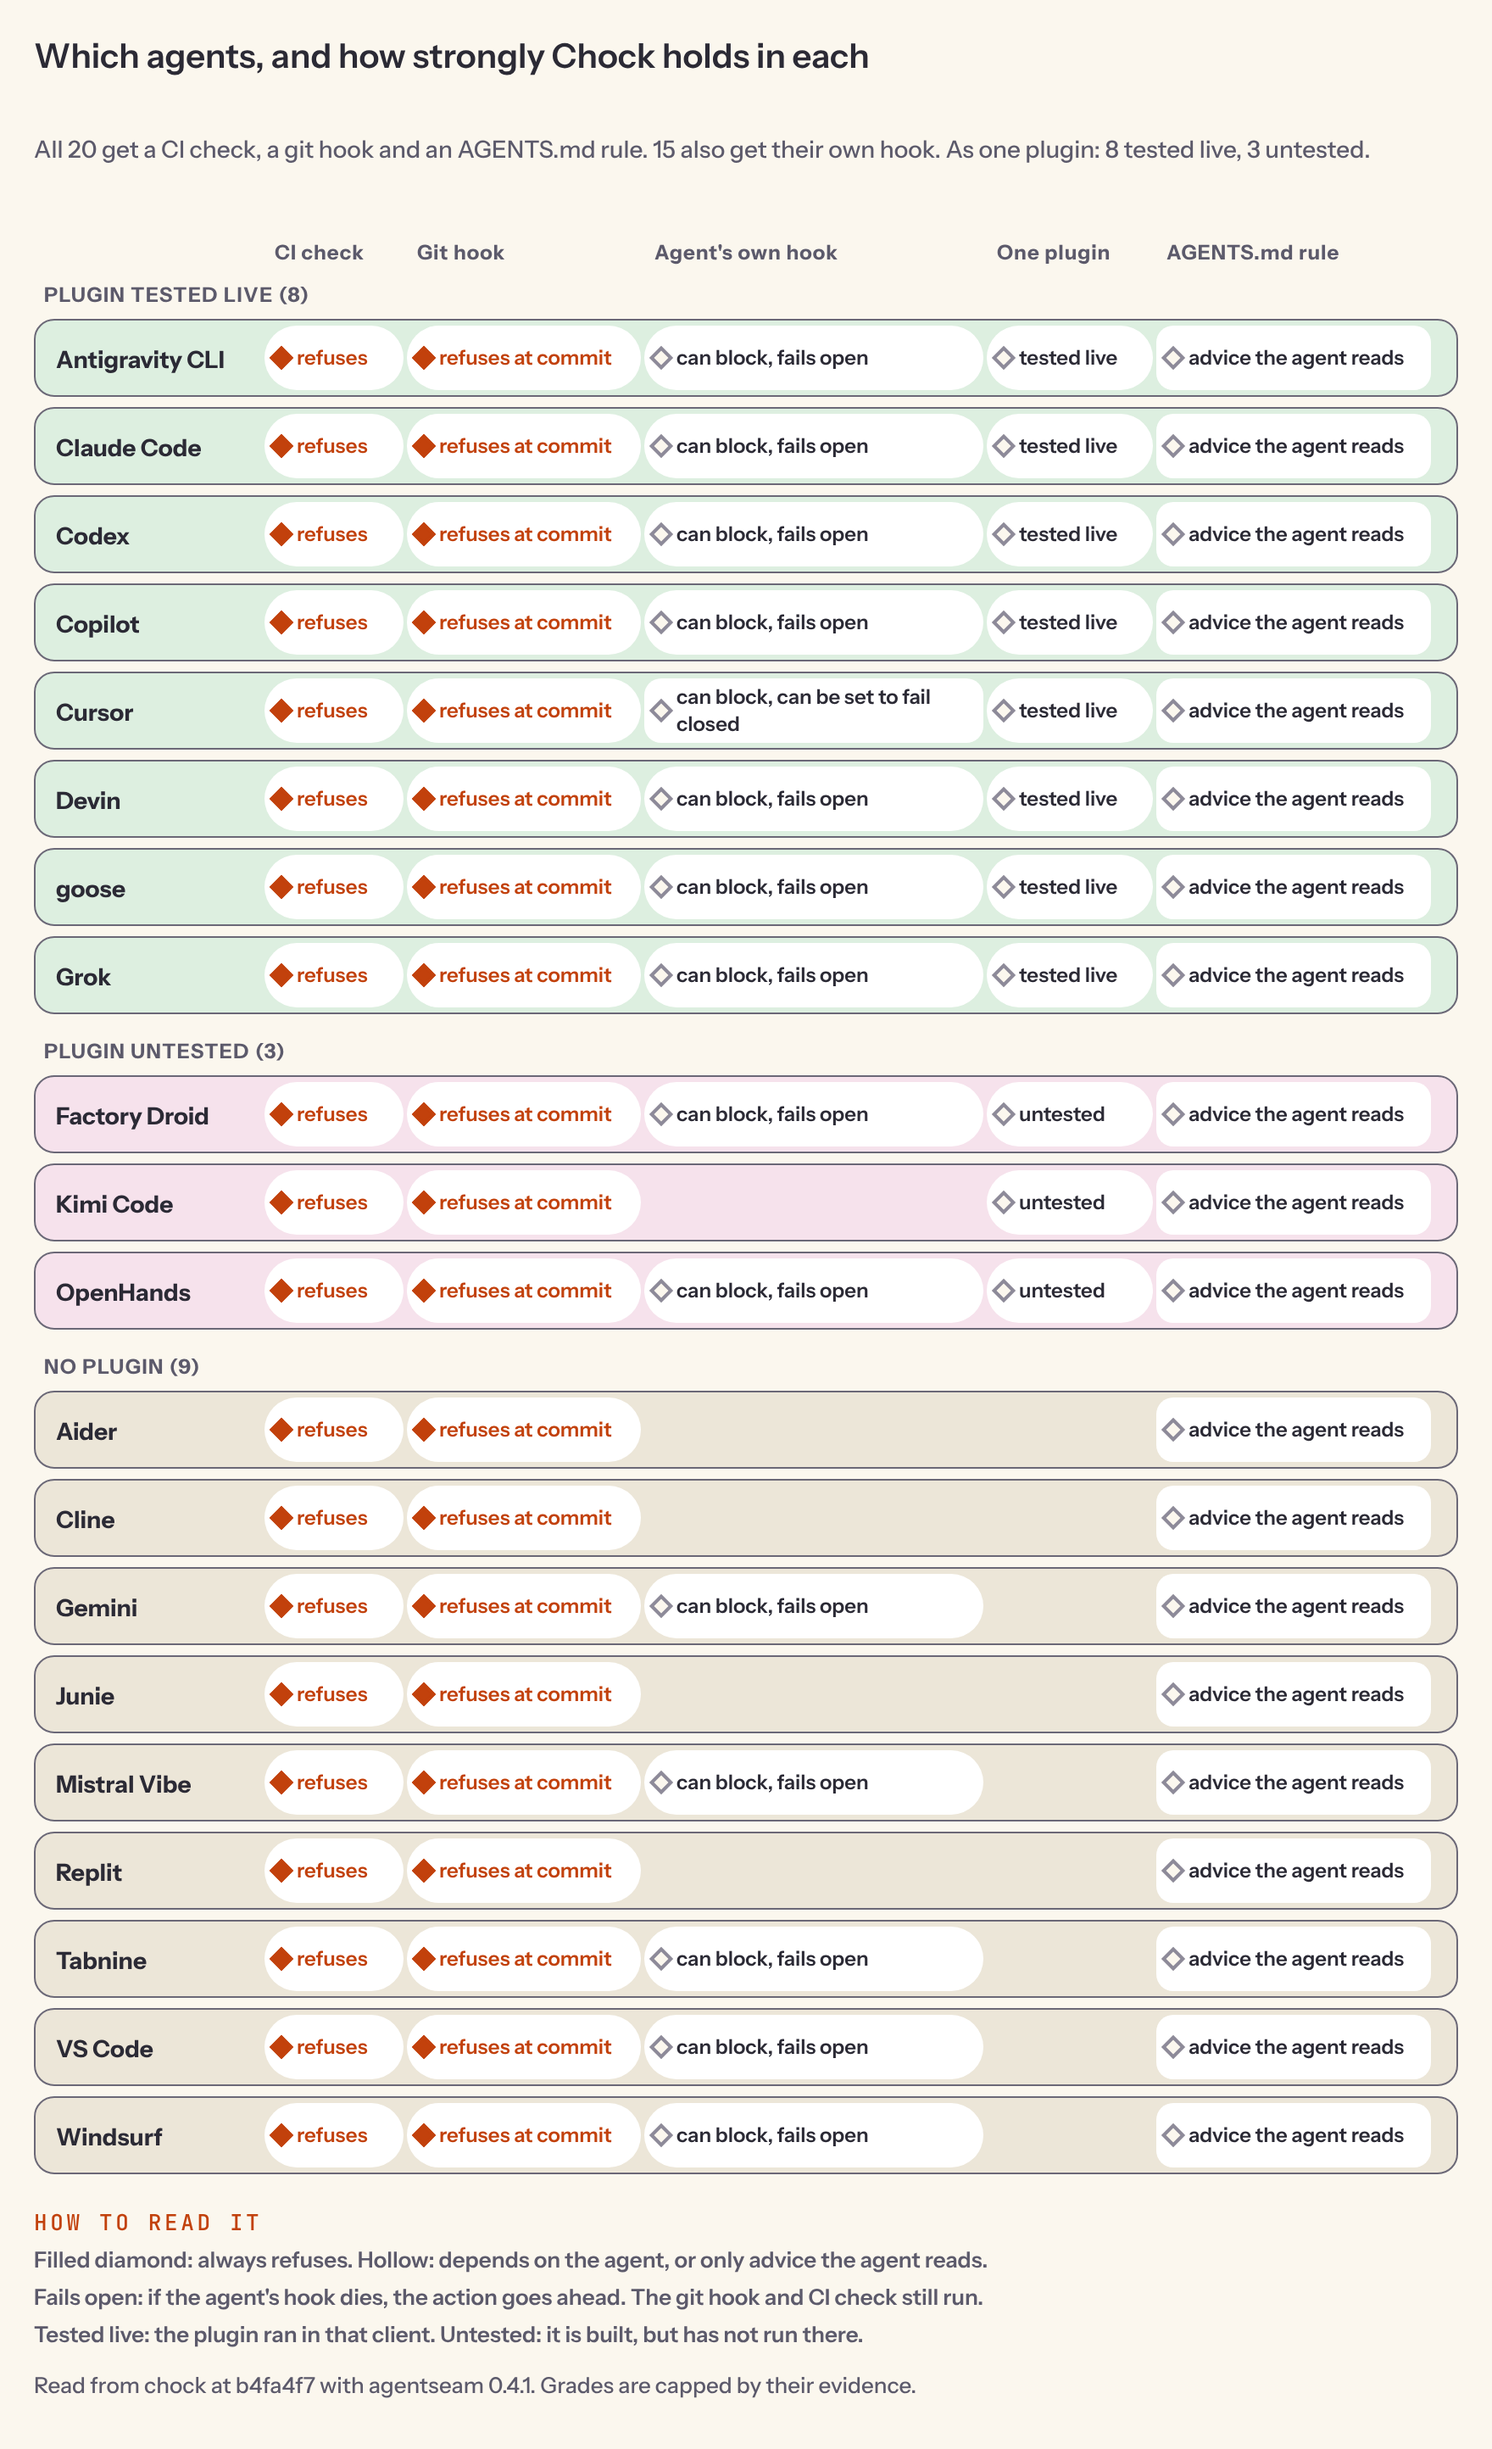
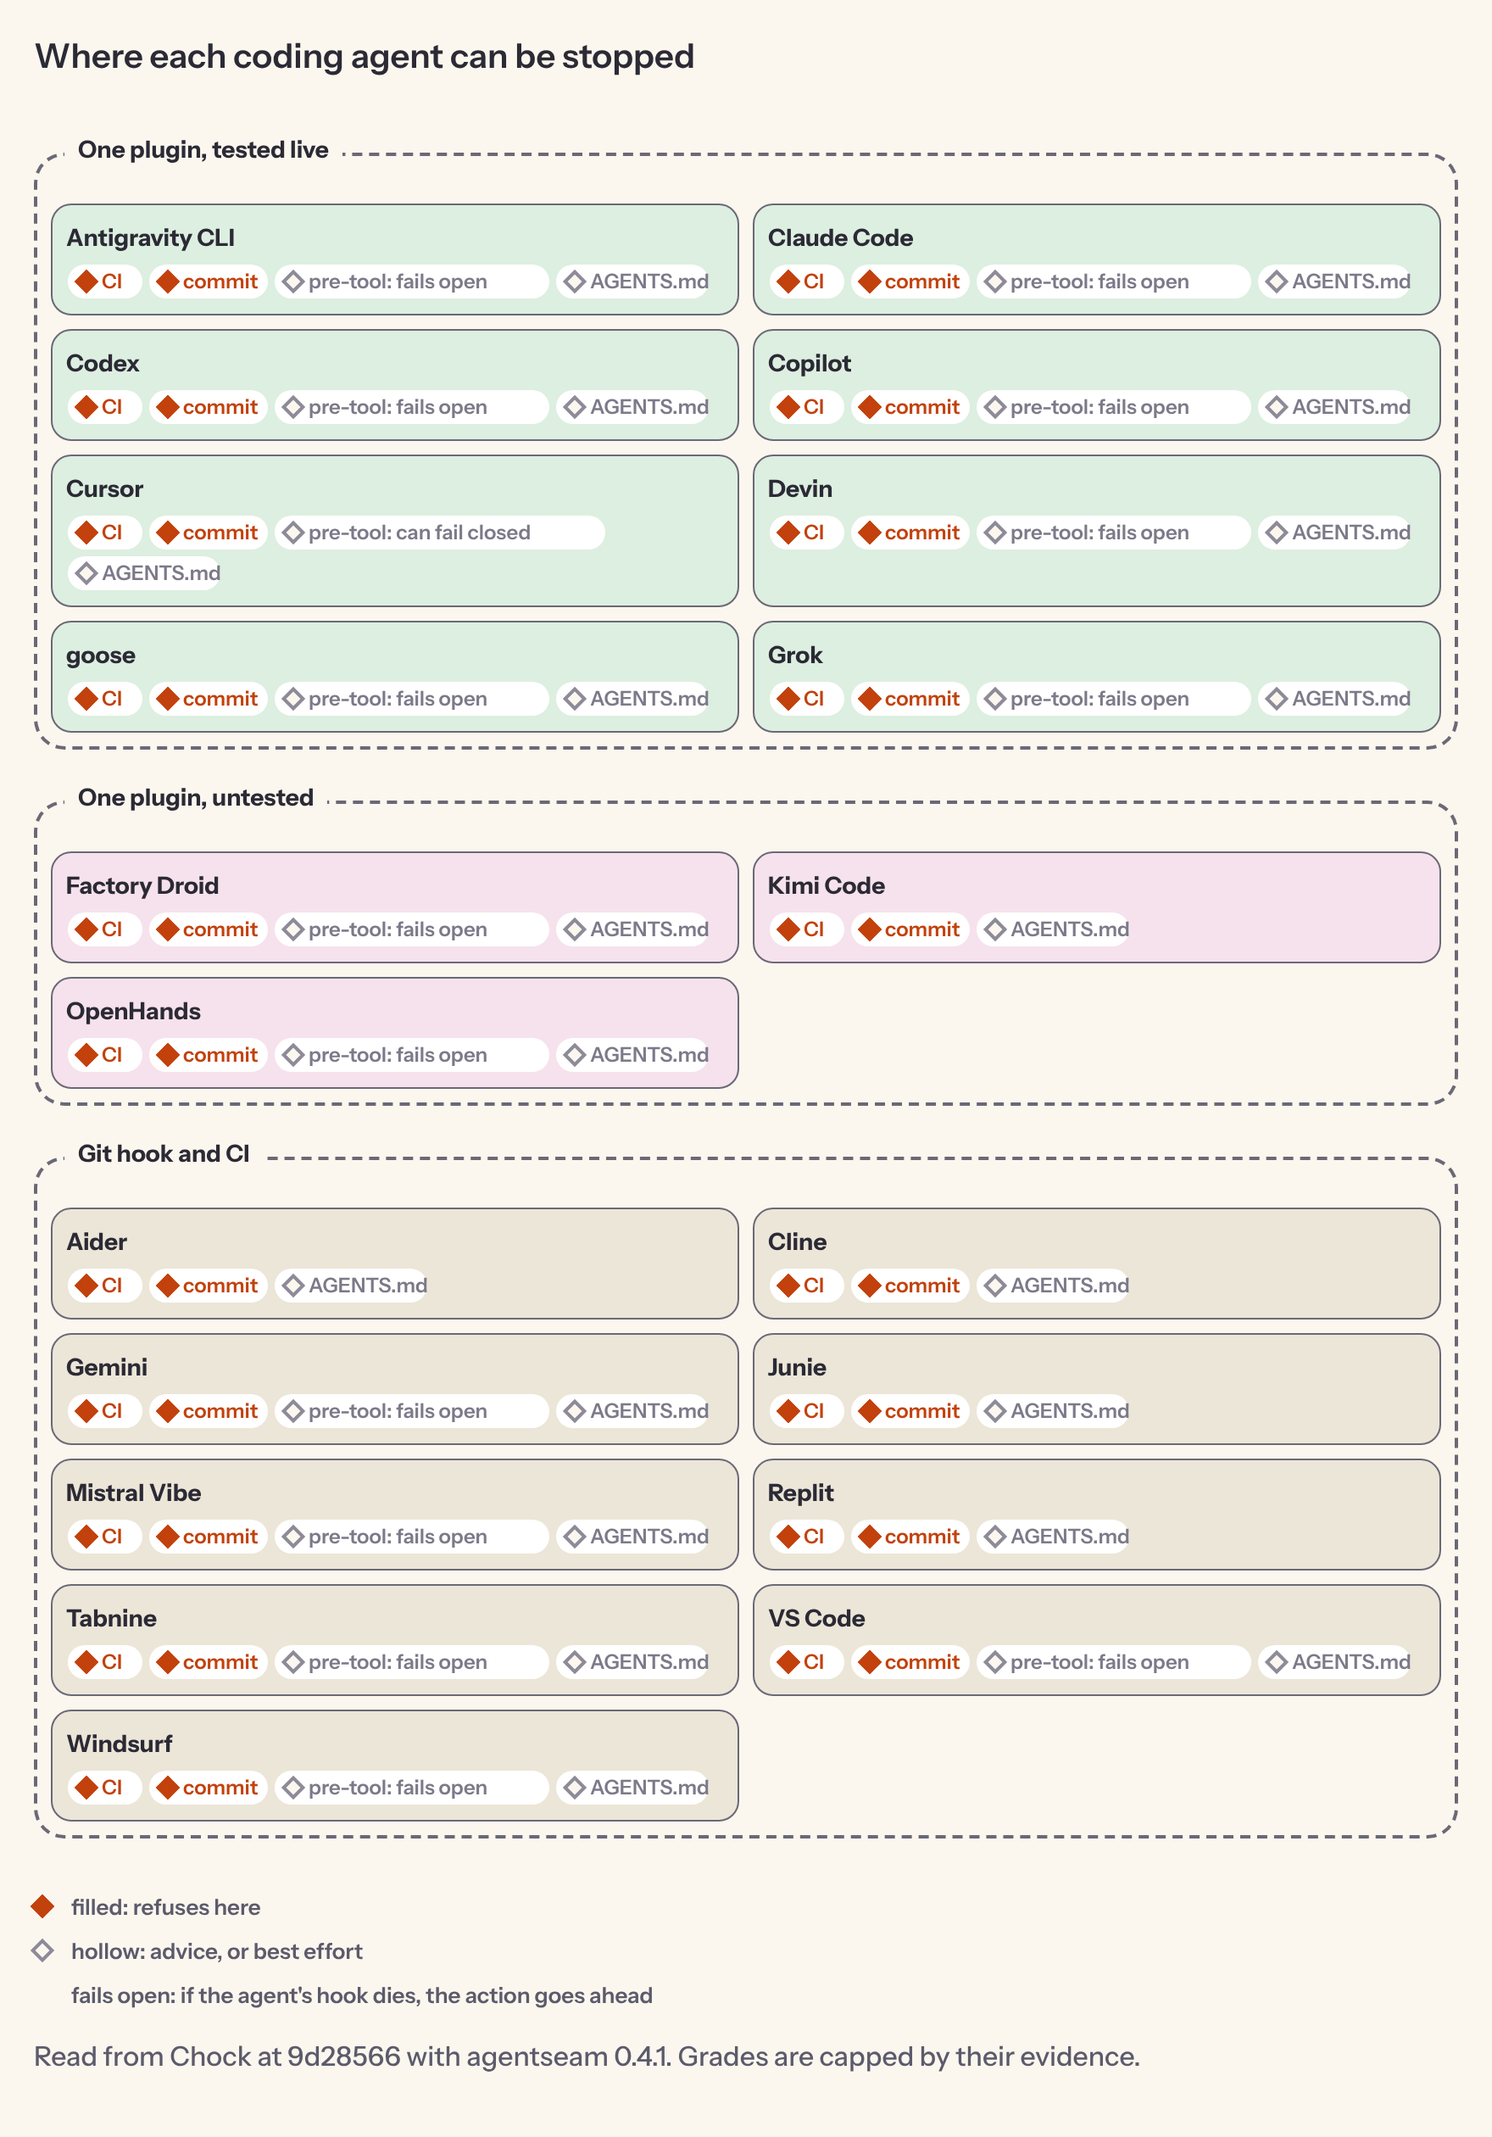
Redraw the agents picture as cards in dashed boxes (RD-9)
Per the updated plan: README palette only, one card per agent in three dashed
boxes (one plugin tested live, one plugin untested, git hook and CI), diamond
chips for CI, commit, pre-tool (labelled with its grade) and AGENTS.md, the
title "Where each coding agent can be stopped", Chock named only in the footer.
The site render, its PNG and the grid layout are removed.

diff --git a/docs/assets/readme/agents_data.py b/docs/assets/readme/agents_data.py
@@ -37,36 +37,24 @@ NAMES = {
 }
 PLUGIN_AGENT = {"claude-code": "claude"}
 GRADE_WORDS = {
-    "enforced": "blocks, verified to fail closed",
-    "enforceable": "can block, can be set to fail closed",
-    "fail-to-ask": "can block, asks a person when it cannot decide",
-    "best-effort": "can block, fails open",
+    "enforced": "fails closed",
+    "enforceable": "can fail closed",
+    "fail-to-ask": "asks when it fails",
+    "best-effort": "fails open",
     "detect": "sees it after the fact",
     "none": "",
 }
 WORDS = {
-    "title": "Which agents, and how strongly Chock holds in each",
-    "columns": [
-        ["ci", "CI check", True],
-        ["git", "Git hook", True],
-        ["hook", "Agent's own hook", False],
-        ["plugin", "One plugin", False],
-        ["rule", "AGENTS.md rule", False],
-    ],
-    "groups": {"tested live": "Plugin tested live", "untested": "Plugin untested", "": "No plugin"},
-    "ci": "refuses",
-    "git": "refuses at commit",
-    "rule": "advice the agent reads",
+    "title": "Where each coding agent can be stopped",
+    "columns": [["ci", "CI", True], ["git", "commit", True], ["hook", "pre-tool", False], ["rule", "AGENTS.md", False]],
+    "groups": {"tested live": "One plugin, tested live", "untested": "One plugin, untested", "": "Git hook and CI"},
     "plugin": {"tested": "tested live", "untested": "untested"},
-    "summary": "All __AGENTS__ get a CI check, a git hook and an AGENTS.md rule. __NATIVE__ also get their own hook. "
-    "As one plugin: __TESTED__ tested live, __UNTESTED__ untested.",
-    "legend_title": "How to read it",
     "legend": [
-        "Filled diamond: always refuses. Hollow: depends on the agent, or only advice the agent reads.",
-        "Fails open: if the agent's hook dies, the action goes ahead. The git hook and CI check still run.",
-        "Tested live: the plugin ran in that client. Untested: it is built, but has not run there.",
+        {"hard": True, "text": "filled: refuses here"},
+        {"hard": False, "text": "hollow: advice, or best effort"},
+        {"hard": None, "text": "fails open: if the agent's hook dies, the action goes ahead"},
     ],
-    "footer": "Read from chock at __COMMIT__ with agentseam __SEAM__. Grades are capped by their evidence.",
+    "footer": "Read from Chock at __COMMIT__ with agentseam __SEAM__. Grades are capped by their evidence.",
 }
 
 
@@ -98,13 +86,13 @@ def derive(commit: str) -> dict:
             {
                 "id": agent,
                 "name": NAMES[agent],
-                "ci": WORDS["ci"] if Surface.CI_GATE in surfaces else "",
-                "git": WORDS["git"] if Surface.GIT_HOOK in surfaces else "",
+                "ci": Surface.CI_GATE in surfaces,
+                "git": Surface.GIT_HOOK in surfaces,
                 "hook_grade": grade,
                 "hook": GRADE_WORDS[grade],
                 "matrix_pre_tool": matrix.enforcement_level(CHOCK_AGENT[agent], "pre_tool"),
                 "plugin": WORDS["plugin"].get(plugin.get(agent, ""), ""),
-                "rule": WORDS["rule"] if Surface.AMBIENT_RULE in surfaces else "",
+                "rule": Surface.AMBIENT_RULE in surfaces,
             }
         )
     order = {"tested live": 0, "untested": 1, "": 2}
@@ -116,21 +104,13 @@ def derive(commit: str) -> dict:
         "plugin_tested": count("plugin", "tested live"),
         "plugin_untested": count("plugin", "untested"),
     }
-    summary = WORDS["summary"]
-    for key, value in (("AGENTS", counts["agents"]), ("NATIVE", counts["own_hook"])):
-        summary = summary.replace(f"__{key}__", str(value))
-    summary = summary.replace("__TESTED__", str(counts["plugin_tested"])).replace(
-        "__UNTESTED__", str(counts["plugin_untested"])
-    )
     footer = WORDS["footer"].replace("__COMMIT__", commit[:7]).replace("__SEAM__", agentseam.__version__)
     return {
         "source": {"file": "SURFACE_AGENTS, in_agent_grade, agentseam matrix, plugin warnings", "commit": commit},
         "title": WORDS["title"],
         "columns": [{"id": i, "label": label, "hard": hard} for i, label, hard in WORDS["columns"]],
         "counts": counts,
-        "summary": summary,
         "groups": WORDS["groups"],
-        "legend_title": WORDS["legend_title"],
         "legend": WORDS["legend"],
         "footer": footer,
         "rows": rows,

diff --git a/tests/test_readme_agents.py b/tests/test_readme_agents.py
@@ -51,13 +51,14 @@ def test_cells_match_surfaces_grades_and_the_readme_summary() -> None:
     data = _committed()
     for row in data["rows"]:
         surfaces = SURFACE_AGENTS[row["id"]]
-        assert bool(row["ci"]) == (Surface.CI_GATE in surfaces) and row["git"] and row["rule"]
+        assert row["ci"] is (Surface.CI_GATE in surfaces) and row["git"] is True and row["rule"] is True
         has_hook = bool({Surface.PRE_TOOL_USE, Surface.AGENT_HOOKS} & surfaces)
         assert (row["hook_grade"] != "none") == has_hook == bool(row["hook"])
         assert row["hook"] == derive.GRADE_WORDS[row["hook_grade"]]
         assert row["matrix_pre_tool"] in derive.GRADE_WORDS
     readme = (ROOT / "README.md").read_text(encoding="utf-8")
     counts = data["counts"]
+    assert sum(1 for r in data["rows"] if r["plugin"] == "tested live") == counts["plugin_tested"]
     assert f"All {counts['agents']} above get" in readme and f"{counts['own_hook']} also get a native hook" in readme
     assert f"{counts['plugin_tested']} tested, {counts['plugin_untested']} untested" in readme
 
@@ -96,28 +97,22 @@ def test_no_text_overflows_a_card() -> None:
     assert _node(script) == []
 
 
-def test_site_palette_render_has_the_same_layout_as_the_default() -> None:
-    script = (
-        "import {where, DEFAULT_PALETTE, SITE_PALETTE} from './docs/assets/readme/agents.mjs';"
-        "import {readFileSync} from 'node:fs';"
-        "const W = JSON.parse(readFileSync('docs/assets/readme/agents.json', 'utf8'));"
-        "const strip = (h) => h.replace(/#[0-9a-fA-F]{3,8}\\b/g, '#');"
-        "const a = where((b) => b, W), b = where((b) => b, W, SITE_PALETTE);"
-        "console.log(JSON.stringify({same: strip(a) === strip(b), differs: a !== b,"
-        " keys: Object.keys(DEFAULT_PALETTE.fill).join() === Object.keys(SITE_PALETTE.fill).join()}));"
-    )
-    assert _node(script) == {"same": True, "differs": True, "keys": True}
+def test_title_is_the_teaching_one_and_chock_is_named_only_in_the_footer() -> None:
+    data = _committed()
+    assert data["title"] == "Where each coding agent can be stopped"
+    text = json.dumps({k: v for k, v in data.items() if k not in ("footer", "source")}).lower()
+    assert "chock" not in text and "chock" in data["footer"].lower()
+    assert data["footer"].count(data["source"]["commit"][:7]) == 1
+    assert list(data["groups"].values()) == ["One plugin, tested live", "One plugin, untested", "Git hook and CI"]
 
 
-def test_both_pngs_exist_with_the_same_size_and_are_registered() -> None:
-    sizes = []
-    for name in ("agents", "agents-site"):
-        png = ASSETS / "v2" / f"{name}.png"
-        assert png.stat().st_size > 10_000, name
-        sizes.append(struct.unpack(">II", png.read_bytes()[16:24]))
-    assert sizes[0] == sizes[1]
+def test_png_exists_is_two_x_wide_and_is_registered_and_no_site_render_exists() -> None:
+    png = ASSETS / "v2" / "agents.png"
+    assert png.stat().st_size > 10_000
+    assert struct.unpack(">II", png.read_bytes()[16:24])[0] == 1760
+    assert not (ASSETS / "v2" / "agents-site.png").exists()
     render = (ASSETS / "render.mjs").read_text(encoding="utf-8")
-    assert "'v2/agents': AGENTS_PNG" in render and "'v2/agents-site': AGENTS_SITE" in render
+    assert "'v2/agents': AGENTS_PNG" in render and "agents-site" not in render
 
 
 def test_adapters_page_links_the_picture_and_the_readme_stays_untouched() -> None:

diff --git a/docs/adapters/README.md b/docs/adapters/README.md
@@ -4,7 +4,7 @@ Adapters map the agent-agnostic Chock core to agent-specific surfaces.
 
 ## Which agents, and how strongly
 
-<p><img src="../assets/readme/v2/agents.png" alt="One card per agent: every agent gets a CI check, a git hook and an AGENTS.md rule; the agent's own hook, where there is one, can block but fails open (Cursor can be set to fail closed); the one-plugin route is tested live, untested or absent." width="820"></p>
+<p><img src="../assets/readme/v2/agents.png" alt="Where each coding agent can be stopped: one card per agent, in three dashed boxes (one plugin tested live, one plugin untested, git hook and CI). Every card has filled diamonds for the CI check and the commit hook, a hollow pre-tool chip labelled with its grade where the agent has its own hook (fails open; Cursor can fail closed), and a hollow AGENTS.md chip." width="820"></p>
 
 The picture is derived from the code by `python docs/assets/readme/derive.py readme`, so a change to an agent moves it.
 

diff --git a/changelog.d/agents-picture.md b/changelog.d/agents-picture.md
@@ -1,2 +1,2 @@
-- A picture of which agents Chock wires and how strongly each holds (`docs/assets/readme/v2/agents.png`, plus a
-  site-palette copy), derived into `agents.json` from the code; linked from `docs/adapters/README.md`.
+- A picture of where each coding agent can be stopped (`docs/assets/readme/v2/agents.png`), derived into
+  `agents.json` from the code; linked from `docs/adapters/README.md`.
